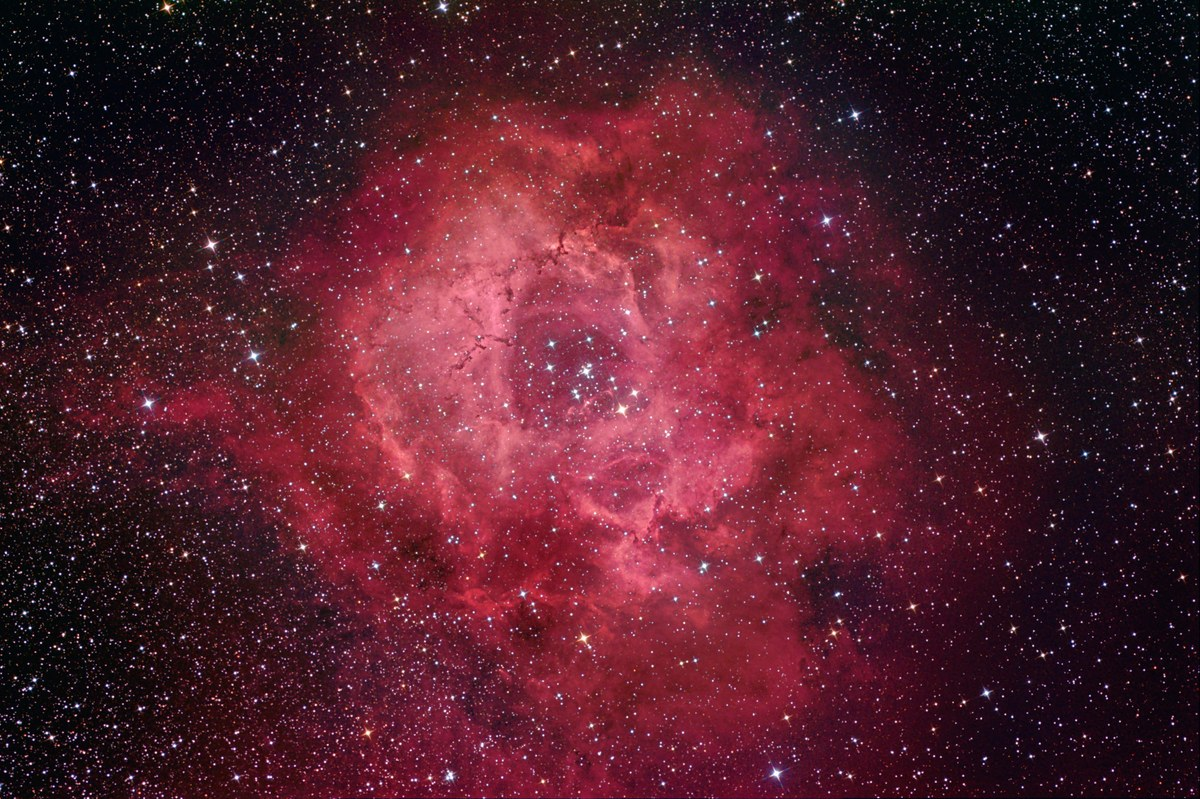
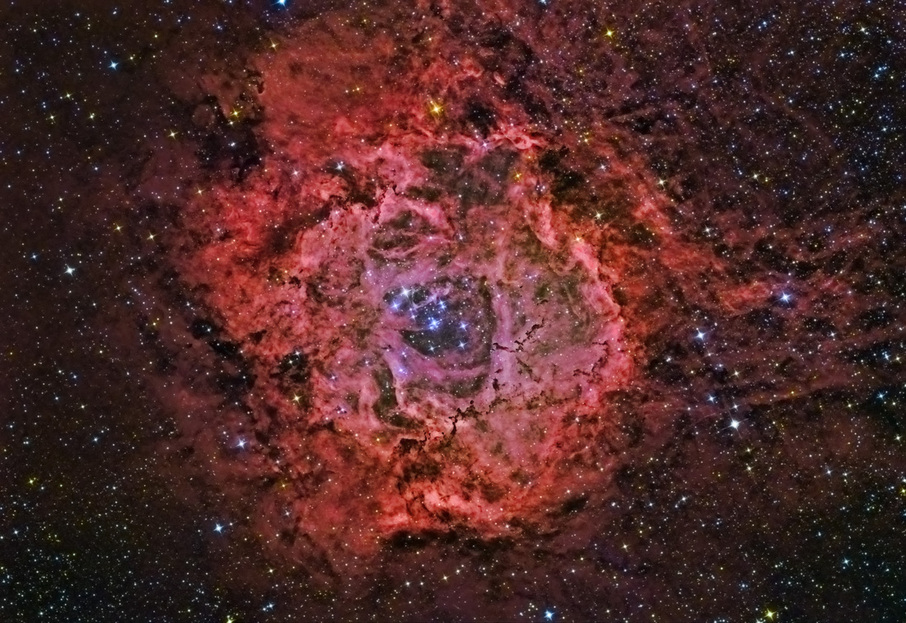
Promote NGC2244 (2004 HaRGB) to main gallery with correct source image
The old-site page's actual photo didn't match what had been migrated for
this entry (a higher-res but seemingly mismatched image from the bulk
migration) -- replaced both the inline article image and the zoom/lightbox
hi-res file with the real image from
oldallaboutastro.weebly.com/ngc2244---the-rosette.html. Retitled to
"NGC2244 - The Rosette Nebula (HaRGB)" to distinguish it from the other
three NGC 2244 efforts already in the main gallery (CFHT Colors, Hubble
Colors, 6" Refractor Shoot-out), added the shoot date to the spec list,
and flipped showInGallery to true to move it out of the legacy staging
gallery.

diff --git a/src/content/gallery/ngc2244-rosette-2004.md b/src/content/gallery/ngc2244-rosette-2004.md
@@ -1,10 +1,10 @@
 ---
-title: NGC 2244 - The Rosette Nebula (2004)
+title: NGC2244 - The Rosette Nebula (HaRGB)
 description: An early Ha(Ha+R)GB image of the Rosette Nebula from the original Ballauer Observatory.
 pubDate: 2004-12-17
 image: ./_images/ngc2244-rosette-2004.jpg
 draft: false
-showInGallery: false
+showInGallery: true
 ---
 
 An early Ha(Ha+R)GB image of the Rosette Nebula from the original Ballauer Observatory.
@@ -12,6 +12,7 @@ An early Ha(Ha+R)GB image of the Rosette Nebula from the original Ballauer Obser
 <div class="ke-two-col">
 <div class="ke-two-col-specs">
 
+<p><strong>Date:</strong> December 17, 2004</p>
 <p><strong>Location:</strong> The Ballauer Observatory near Azle, Texas</p>
 <p><strong>Conditions:</strong> Transparency 4.8 mag zenithal, seeing 7/10, temperature 38&deg;F, camera cooled to -25&deg;C</p>
 <p><strong>Equipment:</strong> Takahashi FSQ-106 at f/5 on a Takahashi NJP mount</p>
